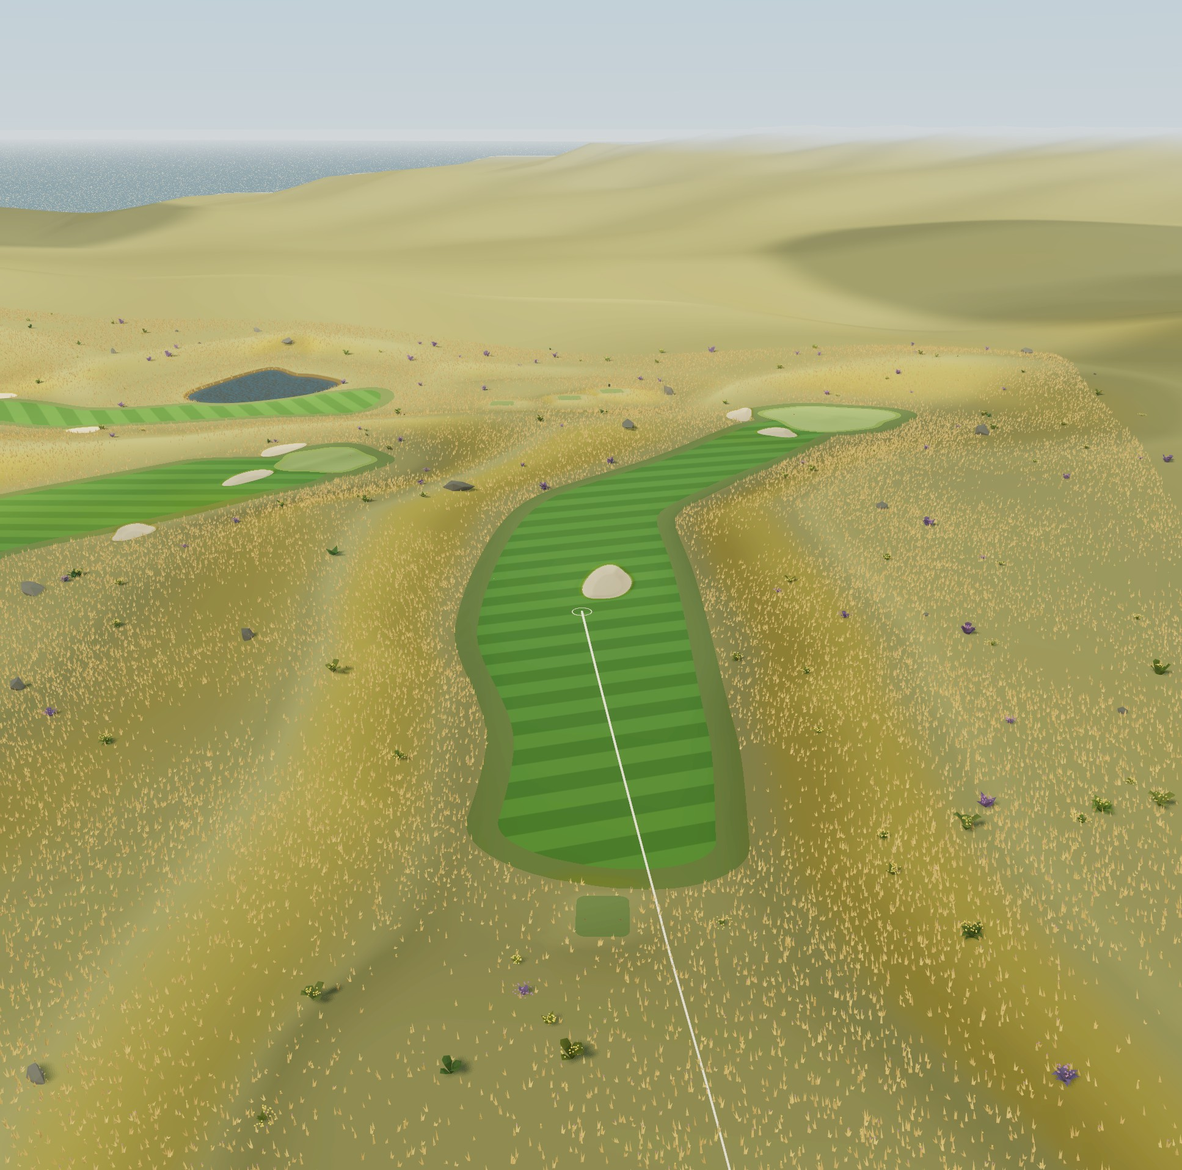
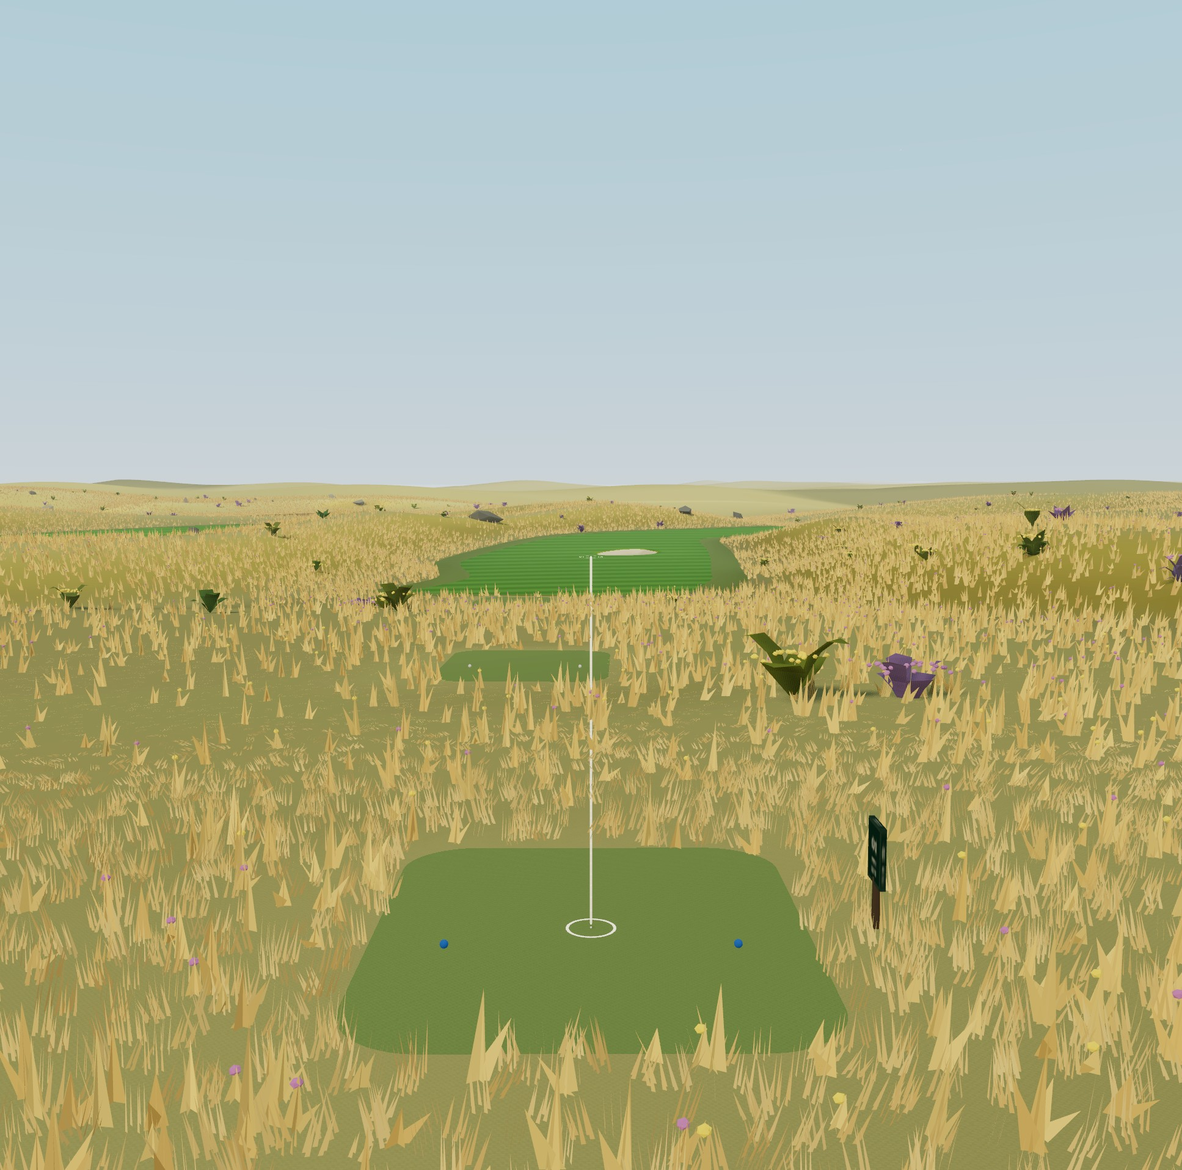
Tee boxes: the stagger earned its place, the pad and the drop-off did not
Measured before changing anything, on the owner instruction, and one of the
three assumptions was wrong.

A BLIND TEE SHOT IS NEVER THE TEE. All 25 of them across 945 shots are caused
by ground 96 to 190 m out -- the landing area. None within 80 m. Shortening the
pad and steepening the front moved the count from 25 to 23, which is noise, and
that is recorded rather than buried: a change that made no difference is a
result.

The generator own sightline starts 12 m out, so nothing in the code had ever
looked at the ground immediately in front of a tee -- exactly the thing being
complained about. The blind metric now walks its own ray from 2 m for that
reading. Measured: near ground stood above the sight line on 8 of 945 shots,
now 2.

THE STAGGER IS THE CHANGE THAT EARNED ITS PLACE. It compared each candidate
site against the PREVIOUS tee only, so blue could sit in line with red while
white was in line with neither. Against every placed tee, worst offender
deciding: pairs in line 110 -> 10 of 945, closest pair sideways 0.00 -> 3.24 m,
at a cost of 1.3 m of median slide and no extra lift.

Pad 9 m -> 7.2 m. Shoulder 35% shorter directly ahead than to the sides, swept
rather than chosen: 0.5 steepens the ground round a pad from a median 6.3 to
10.1 degrees for no further gain, 0.35 reaches the same result at 7.8.

MARKERS WERE A METRE OFF THE TEE. They stood 4 m either side of a pad 3 m wide,
so both markers of every tee on the course sat in the collar rather than on the
[…]

diff --git a/TEE_AND_OBSTRUCTION_REPORT.md b/TEE_AND_OBSTRUCTION_REPORT.md
@@ -1,0 +1,186 @@
+# Blocked tees, the giant bush, and what the tee boxes were actually doing
+
+Overnight, 25 September 2026. Four reports from play, measured before anything
+was changed. **One of the four had a different cause than any of us assumed,
+and that is the most useful thing in this document.**
+
+Pictures are in `bench/shots/`, `before/` against `after/`, same seed, same
+hole, same camera, same clock (10:30, fog on). `before/` is `main` as you were
+playing it; `after/` is the two branches below.
+
+---
+
+## 1. Rocks were standing in tee shots. Fixed, and it was a real hole in a rule.
+
+**Look at `before/tee-desert.jpg` and `after/tee-desert.jpg`.** In the before
+shot there is a boulder sitting in the fairway directly on the line of play,
+with a second one hard right. In the after shot the line is clear.
+
+Trees have always been refused where they would stand in a tee shot. Rocks were
+tested by the same function — and given none of the things that make the test
+mean anything:
+
+- a rock was tested as a **point with no width**, while a trunk has always
+  passed its girth. A stone is up to 1.65 times its own scale across.
+- its ceiling was `y + scale`, which **is not its height**. A stone is drawn up
+  to 0.9 scale above its centre and sunk a quarter of it, so the crown is at
+  `y + 1.15 scale`.
+- it never consulted the **tee fan** at all — the combined cone from all three
+  tees that stops something standing in the view from the back box.
+
+Measured across four courses:
+
+| | rocks in a tee shot | rocks in the view from the tees |
+|---|---|---|
+| before | 4 | 41 |
+| after | **0** | **0** |
+
+Mountain and desert carry 500 and 550 stones against 160 everywhere else, at
+twice the scale. That is exactly where you saw it.
+
+Trees turned out to have a smaller version of the same gap: they padded the
+corridor test by their girth and the fan test by nothing, so a trunk up to
+3.6 m across could stand half inside the view from the back tees. **154 of them
+across 35 planted courses.** Closing it costs 31 trees out of 45,909, and the
+planting around tees holds at 0.45–0.89 of course average density — no sign of
+the clear-cut we spent a session fixing.
+
+There is a new measurement behind this, `node tools/bench.mjs teeclear`, which
+calls the generator's *own* placement rules against the *finished* world. That
+is the only kind of check that catches a rule applied unevenly: during placement
+the generator's own answer was "nothing is in the way".
+
+---
+
+## 2. The giant bush was gorse, grown to the height of a house
+
+It only ever happened on **links**, and here is why. The fairway-feature picker
+asks for the biome's first species that is not ground cover, and falls back to
+the first species of all if there isn't one. Links grows gorse, heather and
+shrub — **all three are ground cover** — so the fallback fired, chose gorse, and
+then sized it by the biome canopy: **13 to 29 metres**.
+
+Every other biome leads its list with a real tree, which is why it survived
+unnoticed since the feature shipped.
+
+A biome with no tree species now gets a cluster of stones instead. Only a tree,
+a desert cactus or rocks may stand in a fairway. Measured on a links course with
+the setting at 100%: 19 feature rocks, 0 feature trees. On midwest: 5 oaks, 0
+rocks, unchanged.
+
+This is scoped exactly to the *Feature tree or rocks in a fairway* setting, as
+you asked. **Nothing in the rough or the surrounds was touched.**
+
+---
+
+## 3. The tee boxes. The change you asked for is in — and it is not what was
+## making shots blind.
+
+You asked me to measure first, so here is what the measurement said, because it
+contradicts the assumption we were both working from.
+
+**Every single blind tee shot is caused by ground 96 to 190 metres out.** Not
+one is caused by the ground in front of the tee.
+
+| where the blocking ground is | shots |
+|---|---|
+| within 30 m of the tee | 0 |
+| 30–80 m | 0 |
+| beyond 80 m | 25 |
+
+Across 945 tee shots, 25 have more than a metre of ground in the way; the median
+distance to the thing blocking them is 167 m. That is a **blind landing area** —
+a rise out where the ball comes down — not a tee-box artefact.
+
+Worse, the generator could not have told us: its own sightline check **starts 12
+metres out**, so nothing in the code has ever looked at the ground immediately in
+front of a tee. I had to measure that separately, from 2 m, to be able to say
+anything about it at all. When I did: ground within 40 m of a tee stood above the
+sight line on **8 of 945 shots**, and above half a metre on 3.
+
+So the honest summary is: **the ground in front of tee boxes was very rarely the
+problem, and it is now rarer still.** The blind shots you are seeing are the
+landscape at the landing area.
+
+### What changed anyway, because you asked for it and it is better
+
+| change | before | after |
+|---|---|---|
+| tee pad length | 9.0 m | **7.2 m** |
+| shoulder reach directly ahead | same as everywhere | **35% shorter, so steeper** |
+| tee pairs sitting in line | 110 of 945 | **10 of 945** |
+| closest two pads sideways | 0.0 m | **3.2 m** |
+| ground within 40 m above the sight line | 8 shots | **2 shots** |
+| blind shots over 1 m | 25 | 23 |
+
+**The stagger is the one that earned its place.** A tee directly in front of
+another is a tee you look over, and it was happening on 12% of pairs. The siting
+now compares against *every* tee already placed rather than only the one in
+front — blue could sit in line with red while white was in line with neither.
+It costs almost nothing: the distance a tee moves from where the hole put it went
+from a median of 22.1 m to 20.8 m, and no tee needed raising that did not need
+raising before.
+
+**I swept the front drop-off rather than picking a number.** At 50% the ground
+around a pad got noticeably steeper (median slope 6.3° → 10.1°, p95 → 21.5°) for
+no further gain. At 35% it gets the same result — the same 2 shots — at median
+7.8°. That is the smallest change that clears it, which is what you asked for.
+
+**Blind shots barely moved, as the measurement predicted: 25 → 23.** Fixing
+those means either lifting tees or flattening the landscape at the landing area,
+and you specifically said not to build up land. If you want them gone, say so
+and I will trade it against something — but it would be a real trade, not a
+free fix.
+
+---
+
+## 4. The sign and the markers
+
+**The markers were a metre off the tee.** They stood 4 m either side of a pad
+whose half-width is 3 m, so *both* markers of *every* tee on the course were
+sitting in the collar rather than on the mown box. They are now 6 inches in
+from each edge. Visible in `after/tee-desert.jpg` as the two blue dots neatly
+inside the pad; compare `before/tee-desert.jpg`, where they sit out at the
+corners.
+
+**The sign now stands beside the blue tee, on your right.** It used to sit at a
+fixed spot nine metres off the hole's own origin — which meant nothing once tees
+started being sited on ground that suits them, a median 14 m off the centre line
+and anywhere from 18 m behind that origin to 60 m past it. It could end up in a
+wood with no tee in sight, which is why it is not in any of the before shots and
+is in all four after shots.
+
+Which side is "right" took a moment to establish and is worth writing down: in
+the hole's own coordinates, **local +x is the player's LEFT**. Note the code
+*also* calls +1 "right" in `fairwayWidth` — that is a naming convention for
+which edge is which and it does not agree with the player's view. I checked the
+geometry across nine holes at nine different rotations before placing the sign.
+
+---
+
+## How the pictures were made
+
+`node tools/shot-sink.mjs --out bench/shots/after` starts a small receiver; the
+game then photographs its own canvas and posts the frame to it. No headless
+browser, no 300 MB dependency, and the picture is the renderer you actually
+play on rather than a software rasteriser.
+
+The tool bit me once within an hour of writing it and now carries the fix: a
+branch checkout removed its output directory under a running sink, the write
+threw, the handler sent no response at all, and the page hung forever waiting
+inside a `requestAnimationFrame` callback with no error anywhere. It always
+answers now, even to say no.
+
+---
+
+## What I did not do
+
+- **Blind tee shots are still 23 of 945.** The cause is the landscape at the
+  landing area and every lever I have for it either lifts tees or flattens
+  ground. Your call.
+- **The tee-complex overview shot** I wanted, showing three staggered pads from
+  above, is not here: the overview camera frames the whole course from very high
+  with clouds in the way. The stagger is in the numbers instead.
+- Generator version is now **32**, and the biome fingerprints were re-saved at
+  it. Any round saved before tonight will rebuild slightly different ground —
+  expected, and the version notice tells the player.

diff --git a/README.md b/README.md
@@ -46,7 +46,7 @@ Rivers and creeks are read off the land's own drainage rather than drawn across 
 
 Every biome now mixes several plant forms: conifers/alder/ferns; desert trees/cacti/rosettes; conifers/aspen; grasses/heath/gorse; parkland broadleaf trees; palms/hala/coastal shrubs; or mixed fall woodland. See [landscape research and aerial references](LANDSCAPE_RESEARCH.md) for the sources and design decisions.
 
-**Course length** sets target blue-tee yardage, with a live total par and par-3/4/5 breakdown. Total par stays at 68–72 for 18 holes and 34–36 for nine; at the extremes, distance continues changing while par stays within those limits. The seed randomizes the par mix and hole order. The target supports 990–4,230 yards for nine holes and 1,980–8,460 for eighteen. Individual rounded hole yardages can make the total differ by a few yards. All courses include **Blue, White and Red tees**, with actual pads, markers, independently varied forward positions, and small lateral offsets. Choose **Playing tee** in the bottom controls or round setup; tee selection is separate from generation. Changing it before the first stroke moves you to that tee; after a stroke, the preference applies on the next hole. White tees average roughly 9% shorter and red roughly 18%. Scorecards and CSV exports include all three yardage rows.
+**Course length** sets target blue-tee yardage, with a live total par and par-3/4/5 breakdown. Total par stays at 68–72 for 18 holes and 34–36 for nine; at the extremes, distance continues changing while par stays within those limits. The seed randomizes the par mix and hole order. The target supports 990–4,230 yards for nine holes and 1,980–8,460 for eighteen. Individual rounded hole yardages can make the total differ by a few yards. All courses include **Blue, White and Red tees**, with actual pads, markers set six inches in from each edge, a hole sign standing to the right of the blue tee, independently varied forward positions, and lateral offsets chosen so that no tee sits directly in front of another one -- a tee you have to look over is a tee in the wrong place. Choose **Playing tee** in the bottom controls or round setup; tee selection is separate from generation. Changing it before the first stroke moves you to that tee; after a stroke, the preference applies on the next hole. White tees average roughly 9% shorter and red roughly 18%. Scorecards and CSV exports include all three yardage rows.
 
 **Green slope & difficulty** ranges from level greens at 0% to genuinely severe ones at 100%: broad tilt, crossing ridges, a punchbowl or a crowned turtleback depending on the seed, and a tier whose face is the steepest ground on the surface. The scale is deliberately uneven — the default of 35% sits where it always has, around 1.3 ft of relief, while 100% carries about 5.6 ft with tier faces near 18%, matching the greens tournament players see. Even at the top, part of every green stays flat enough to cut a hole on. **Pin difficulty** cuts the cups for a day of a tournament: Thursday takes the flattest ground with the most room, and Friday through Sunday move to progressively more slope. No day will cut a cup where a ball cannot come to rest, or nearer than about three paces to an edge. Hole locations work front, middle, back and around again as the round goes on, and the hole card shows which you are playing. Rendering and ball contact use the same ground heights. **Green reading** is three independent tools, each a small button along the top of the course map: a slope-colored 1.5 m grid; animated markers that originate at grid vertices and follow actual downhill gradients; and an elevation heat map with 10 cm contour lines. Blue/green/yellow/orange/red grid colors indicate increasing slope. Heat map blue is lower elevation and red is higher on that green. Use any combination. They sit on the map because that is what they describe, and they can be switched at any time — you no longer open a panel to reach them. These display controls need no regeneration and remain separate from Stimp. They are off and disabled on the driving range, where the practice green is deliberately flat and every overlay would paint one featureless colour.
 

diff --git a/TODO.md b/TODO.md
@@ -136,6 +136,57 @@ prevent.
   at 2.25x, below it again, so the risk is back to modest; it matters again if
   anyone raises the slider.
 
+## Tee boxes: what was wrong, and what was not
+
+Reported from play on 2026-09-25, with an instruction to measure before
+changing anything. Worth it: one of the three assumptions was wrong.
+
+- [x] **A blind tee shot is never the tee.** All 25 of them across 945 shots are
+  caused by ground 96 to 190 m out -- the landing area, not the box. Nothing
+  within 80 m. Shortening the pad and steepening the front moved the count from
+  25 to 23, which is noise.
+
+- [x] **The generator's own sightline starts 12 m out**, so nothing in the code
+  had ever looked at the ground immediately in front of a tee. The `blind`
+  metric now walks its own ray from 2 m for that reading. Measured: near ground
+  stood above the sight line on 8 of 945 shots, now 2.
+
+- [x] **The stagger is the change that earned its place.** It compared each
+  candidate against the PREVIOUS tee only, so blue could sit in line with red
+  while white was in line with neither. Against every placed tee, with the worst
+  offender deciding: in-line pairs 110 -> 10 of 945, closest pair sideways
+  0.00 m -> 3.24 m, at a cost of 1.3 m of median slide.
+
+- [x] **Pad 9 m -> 7.2 m, shoulder 35% shorter directly ahead.** The front fall
+  was swept: 0.5 steepens the ground round a pad from a median 6.3 to 10.1
+  degrees for no further gain, 0.35 reaches the same result at 7.8.
+
+- [x] **Markers were a metre off the tee.** They stood 4 m either side of a pad
+  3 m wide, so both markers of every tee on the course sat in the collar. Six
+  inches in from each edge now.
+
+- [x] **The sign was nowhere near the tee.** Fixed at nine metres off the hole's
+  own origin, which stopped meaning anything when tees began being sited on
+  ground that suits them. It now stands beside the blue tee on the player's
+  right -- and which side that is needed working out, because local +x is the
+  player's LEFT while the code also calls it "right".
+
+- [x] **`tools/shot-sink.mjs`** lets the game photograph itself into files, so a
+  change about how something looks can be shown rather than described. No
+  headless browser: the picture is the renderer that ships. It hung its own
+  client within the hour when a branch checkout removed its output directory --
+  the write threw, no response was sent, and the page waited forever inside a
+  requestAnimationFrame callback. It always answers now.
+
+- [ ] **23 blind tee shots remain and every lever is a trade.** Lifting tees or
+  flattening the landing area, both of which the owner ruled out in principle
+  ("without building up too much land"). Needs a decision rather than a fix.
+
+- [ ] **No picture of a tee complex from above.** The overview camera frames the
+  whole course from very high with clouds in the way, so the stagger is
+  evidenced by numbers rather than by an image. A camera that frames one tee
+  complex would be worth having for exactly this.
+
 ## Obstructions standing where they should not
 
 Reported from play on 2026-09-25: blocked tee boxes in mountain and desert, and

diff --git a/RESEARCH.md b/RESEARCH.md
@@ -821,6 +821,62 @@ neighbouring block took the span between two anchors with it. The value reached
 the GPU and the picture never changed. `tests/green-cue-wiring.test.mjs` now
 reads the shader source and fails if any cue uniform is never referenced.
 
+## The tee boxes, and where a blind tee shot actually comes from
+
+Reported from play: ground in front of the tee boxes blocking the view to the
+landing area. Owner's instruction was to measure before changing anything, and
+the measurement says the assumption is wrong.
+
+**Every blind tee shot is caused by ground 96 to 190 m out.** Over 945 tee
+shots on 35 courses, 25 have more than a metre of ground in the way, and the
+median distance to the obstruction is 167 m:
+
+| where the worst obstruction sits | shots |
+|---|---|
+| within 30 m | 0 |
+| 30 to 80 m | 0 |
+| beyond 80 m | 25 |
+
+That is a blind landing area -- a rise where the ball comes down -- and no
+change to a tee pad can touch it.
+
+**The generator could not have told us, because its own sightline starts 12 m
+out.** Nothing in the code has ever looked at the ground immediately in front of
+a tee. A metric that inherits the blind spot of the thing it checks cannot
+report on it, so `blind` now walks from 2 m at a 2 m step and records the worst
+obstruction within 40 m separately. Measured that way, ground near a tee stood
+above the sight line on **8 of 945 shots** and above half a metre on 3.
+
+### What the three tee changes actually did
+
+Swept rather than chosen. Shortening the pad and steepening the front were
+asked for on their own merits; the numbers say what they bought.
+
+| | before | after |
+|---|---|---|
+| pad length | 9.0 m | 7.2 m |
+| shoulder reach directly ahead | isotropic | 35% shorter |
+| pairs of tees in line | 110 / 945 | 10 / 945 |
+| closest two pads sideways | 0.00 m | 3.24 m |
+| ground within 40 m above the sight line | 8 shots | 2 shots |
+| blind shots over 1 m | 25 | 23 |
+| median distance a tee slid from where the hole put it | 22.1 m | 20.8 m |
+
+**The stagger is the change that earned its place.** It was already a scoring
+preference and it compared each site against the PREVIOUS tee only -- blue can
+sit in line with red while white is in line with neither. Against every tee
+already placed, with the worst offender deciding the penalty, in-line pairs fall
+by a factor of eleven and cost 1.3 m of median slide.
+
+**The front drop-off was swept and 0.5 was rejected.** At 0.5 the ground around
+a pad steepens from a median 6.3 degrees to 10.1 and a p95 of 21.5, for no
+further gain: 0.35 reaches the same 2 shots at a median of 7.8 degrees. The
+smallest change that clears it.
+
+**Shortening the pad and steepening the front did not move blind shots at all,
+and were never going to.** 25 to 23 is noise on a cause 100 m away. Recorded
+because a change that made no difference is a result.
+
 ## What was standing in a tee shot, and how it got there
 
 Reported from play: tee boxes blocked by rocks, in mountain and desert. Those

diff --git a/PROJECT_HANDOFF.md b/PROJECT_HANDOFF.md
@@ -480,6 +480,10 @@ The legend reports both axes, long first (`31 × 11 yd`), because a group 40 yar
 
 **The circles are drawn with a dark under-stroke.** They land on greens and fairways, which are mid-tone greens themselves, and a single coloured hairline on top of those was visible in a screenshot and invisible at a glance.
 
+**LOCAL +X IS THE PLAYER'S LEFT, AND THE CODE ALSO CALLS IT "RIGHT".** In a hole's own frame the hole plays along +z, and three.js builds a camera's screen-right as `cross(up, eye - target)`, which is -x when you face +z. Checked across nine holes at nine rotations: the sign of the cross product between the play direction and local +x is identical on all of them, so `toWorld` is a rotation with no mirror and this holds everywhere. `fairwayWidth(h, z, 0, +1)` is nevertheless named the "right" edge -- that is a naming convention for which edge is which and it does NOT agree with the player's view. Anything positioned by eye (the hole sign) must use the geometric answer; anything reading those width helpers must use theirs. Do not "fix" one to match the other without checking every caller.
+
+**THE GENERATOR'S OWN SIGHTLINE STARTS 12 METRES OUT.** `sightline` walks from d=12 because that is past its own tee pad, which means nothing in the generator has ever looked at the ground immediately in front of a tee -- exactly where a shoulder ramping up to higher natural ground would sit. Any metric built on it inherits the blind spot. `tools/metrics.mjs` `blind` therefore walks its OWN ray from 2 m for the near reading, mirroring `sightline` in every other respect. Measured with that: all 25 blind tee shots are caused by ground 96 to 190 m out, and none by the tee.
+
 **ANYTHING WITH A BODY IS JUDGED BY THE BODY, NEVER BY THE POINT IT GREW FROM.** Trees have always passed their trunk width into `blocksLaunch`; rocks passed nothing, so a boulder up to 1.65 scale across was tested as a dimensionless point, against a ceiling of `y+scale` that is not its height either -- a stone is drawn up to 0.9 scale above its centre and sunk a quarter of it, so its crown is at `y + 1.15 scale`. Build the geometry first and test THAT, which is the order the specimen obstacles already used and the comment there already explains. `rock.top` and `rock.reach` are the two numbers physics reads and they are the two the placement rules must read as well.
 
 **A PLACEMENT RULE MUST BE APPLIED TO EVERY KIND OF BODY OR IT IS NOT A RULE.** `inTeeFan` -- the combined cone from all three tees, which is what stops something standing in the view from the back box -- was consulted by trees and by nothing else. Rocks never called it. Measured across four courses: four rocks standing in a tee shot and 41 in the view. `tools/metrics.mjs` now carries `teeclear`, which calls the generator's own `blocksLaunch` and `inTeeFan` against the FINISHED world; it is the only kind of check that catches a rule applied unevenly, because the generator's own answer during placement was "nothing is in the way".

diff --git a/PROCEDURAL_GENERATION.md b/PROCEDURAL_GENERATION.md
@@ -103,3 +103,23 @@ or a cluster of stones placed in the fairway on purpose from 95 m out. It obeys
 of open grass down one side, and keeps clear of the green. A biome whose species
 are all ground cover -- links -- gets stones rather than a shrub grown to canopy
 height.
+
+## Tee complexes
+
+Each tee is sited by a score over candidate ground: flatness first, then the
+order of the tees, then how much it can see, then how far out of line it sits
+with **every** tee already placed. The pad is 6 by 7.2 m with a mown collar
+1.45 times that, and its plateau reaches the collar's edge so the whole mown
+surface is flat. The shoulder that falls from the plateau to natural ground is
+a fixed reach with whatever steepness the drop makes -- and 35% shorter
+directly ahead than to the sides or behind, because the bank that makes a tee
+read as built when you see it from the side is a slope between you and the
+fairway when you stand on it.
+
+Markers sit six inches in from each edge of the pad, and the hole sign stands
+beside the blue tee on the player's right.
+
+A tee is raised only after siting has failed to find a view, and never by more
+than `TEE_LIFT_CAP`. Blind tee shots that remain are the landscape at the
+landing area rather than the tee: measured, every one of them is caused by
+ground 96 to 190 m out.
